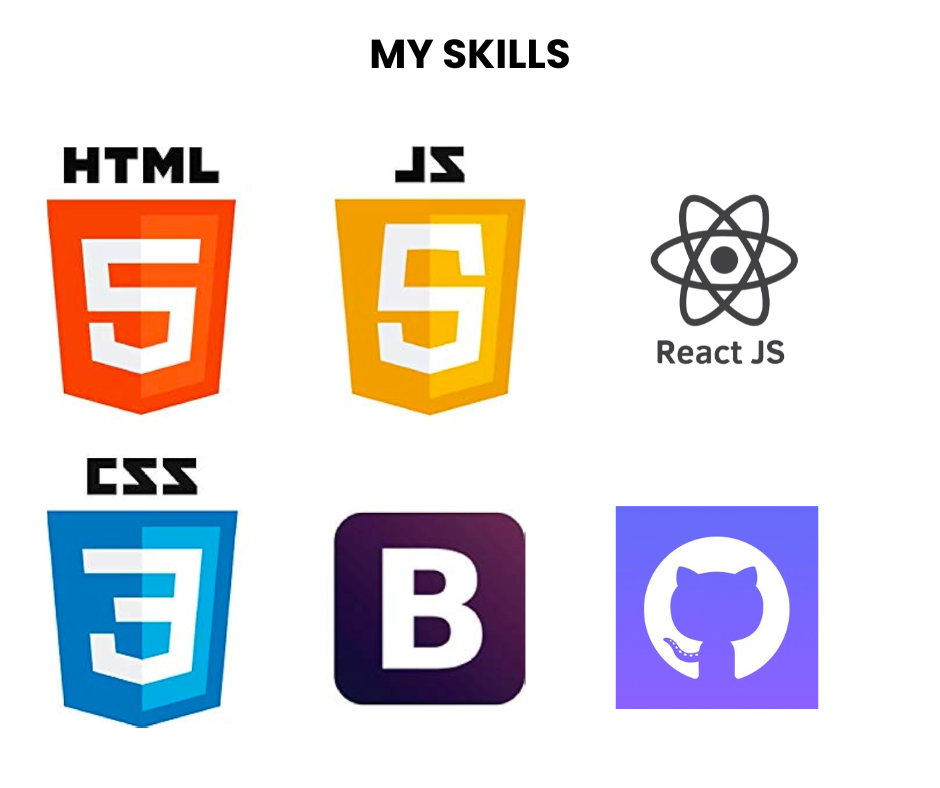
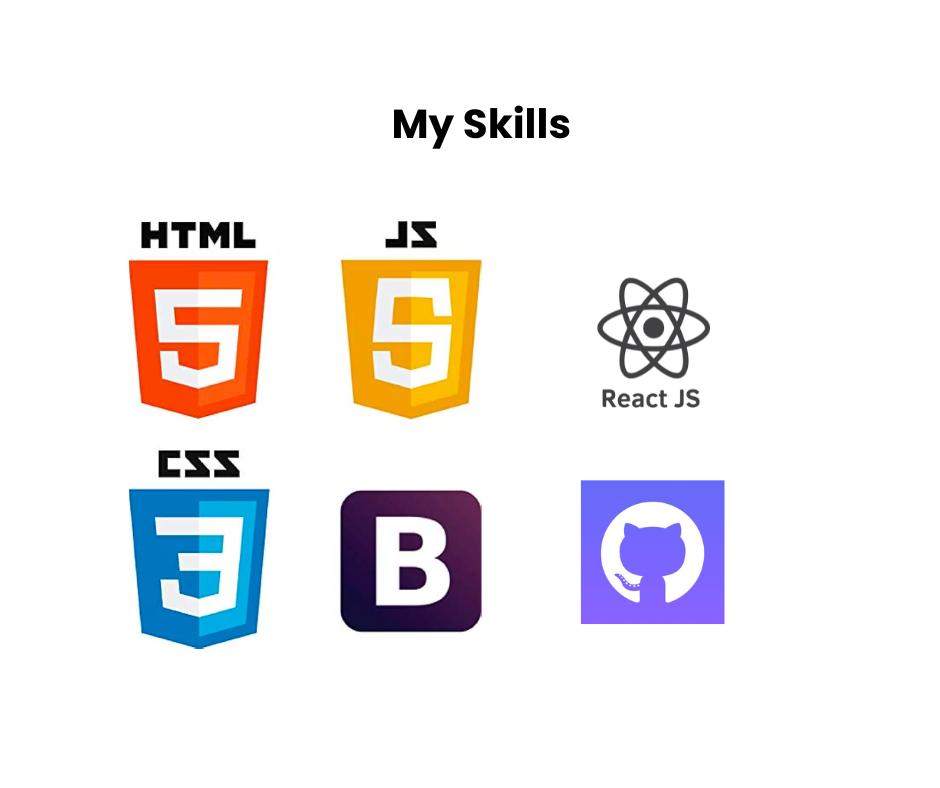
added and updated SEO

diff --git a/contact.html b/contact.html
@@ -5,7 +5,7 @@
     <meta name="viewport" content="width=device-width, initial-scale=1.0" />
     <meta
       name="description"
-      content="What to know more about Ofentse and keep up with my latest work? Check our my GitHub profile, Linkedin page and Instagram and get to know me better. You can even send me an emial for collaborations and recruitment purposes"
+      content="Want to know more about Ofentse and keep up with my latest work? Check out my GitHub profile, Linkedin page and Instagram and get to know me better. You can even send me an emial for collaborations and recruitment purposes, I will gladly send you my updated Cv"
     />
     <title>Contact Ofentse -Ofentse Ngatane</title>
     <link
@@ -33,7 +33,7 @@
   <body>
     <div class="container">
       <nav class="d-flex justify-content-between">
-        <a href="/" title="Homepage">
+        <a href="/index.html" title="Homepage">
           <img
             src="images/on-logo.png"
             class="on-logo d-none d-md-block"
@@ -122,16 +122,15 @@
           </div>
         </div>
       </div>
-      <br>
-       <br>
-        <br>
-        <p class="text-center mt-5">
-          This project was coded by Ofentse Ngatane and it is
-          <a href="https://github.com/Ofentse-Ngatane" target="_blank"
-            >open-sourced</a
-          >
-        </p>
-      </footer>
+      <br />
+      <br />
+      <br />
+      <p class="text-center mt-5">
+        This project was coded by Ofentse Ngatane and it is
+        <a href="https://github.com/Ofentse-Ngatane" target="_blank"
+          >open-sourced</a
+        >
+      </p>
     </div>
   </body>
 </html>

diff --git a/about.html b/about.html
@@ -5,7 +5,7 @@
     <meta name="viewport" content="width=device-width, initial-scale=1.0" />
     <meta
       name="description"
-      content="Front-end developer based in Johannesburg, South Africa."
+      content="Front-end developer based in Johannesburg, South Africa. I am  currently actively pursuing my Front-end Developer certificate through the SheCodes program. Enjoy exploring my portfolio, and please don't hesitate to reach out!"
     />
     <title>About-Ofentse Ngatane</title>
     <link
@@ -33,7 +33,7 @@
   <body>
     <div class="container">
       <nav class="d-flex justify-content-between">
-        <a href="/" title="Homepage">
+        <a href="/index.html" title="Homepage">
           <img
             src="images/on-logo.png"
             class="on-logo d-none d-md-block"
@@ -74,7 +74,7 @@
               undertook an internship with Corporate Communications. This
               experience exposed me to Web Content Management, igniting my
               interest in delving deeper into the world of websites and
-              understanding the intricacies of their creation. Currently, I am
+              understanding the intricacies of their creation. I am currently
               actively pursuing my Front-end Developer certificate through the
               SheCodes program. Enjoy exploring my portfolio, and please don't
               hesitate to reach out!

diff --git a/projects.html b/projects.html
@@ -5,7 +5,7 @@
     <meta name="viewport" content="width=device-width, initial-scale=1.0" />
     <meta
       name="description"
-      content="What to explore my creativity? Take a looks at some of my my projects thus far using HTLM, CSS and JavaScript. Contact me for collaborations "
+      content="What to explore my creativity? Have fun and take a look at some of my projects that I have built thus far while using HTLM, CSS, JavaScript and Bootstrap. Contact me for collaborations "
     />
     <title>Projects-Ofentse Ngatane</title>
     <link

diff --git a/index.html b/index.html
@@ -33,7 +33,7 @@
   <body>
     <div class="container">
       <nav class="d-flex justify-content-between">
-        <a href="/" title="Homepage">
+        <a href="/index.html" title="Homepage">
           <img
             src="images/on-logo.png"
             class="on-logo d-none d-md-block"
@@ -80,7 +80,6 @@
           </div>
         </div>
         <div class="col-lg-6">
-          <br />
           <br />
           <img src="images/my-skills.png" alt="my skills" class="img-fluid" />
         </div>
